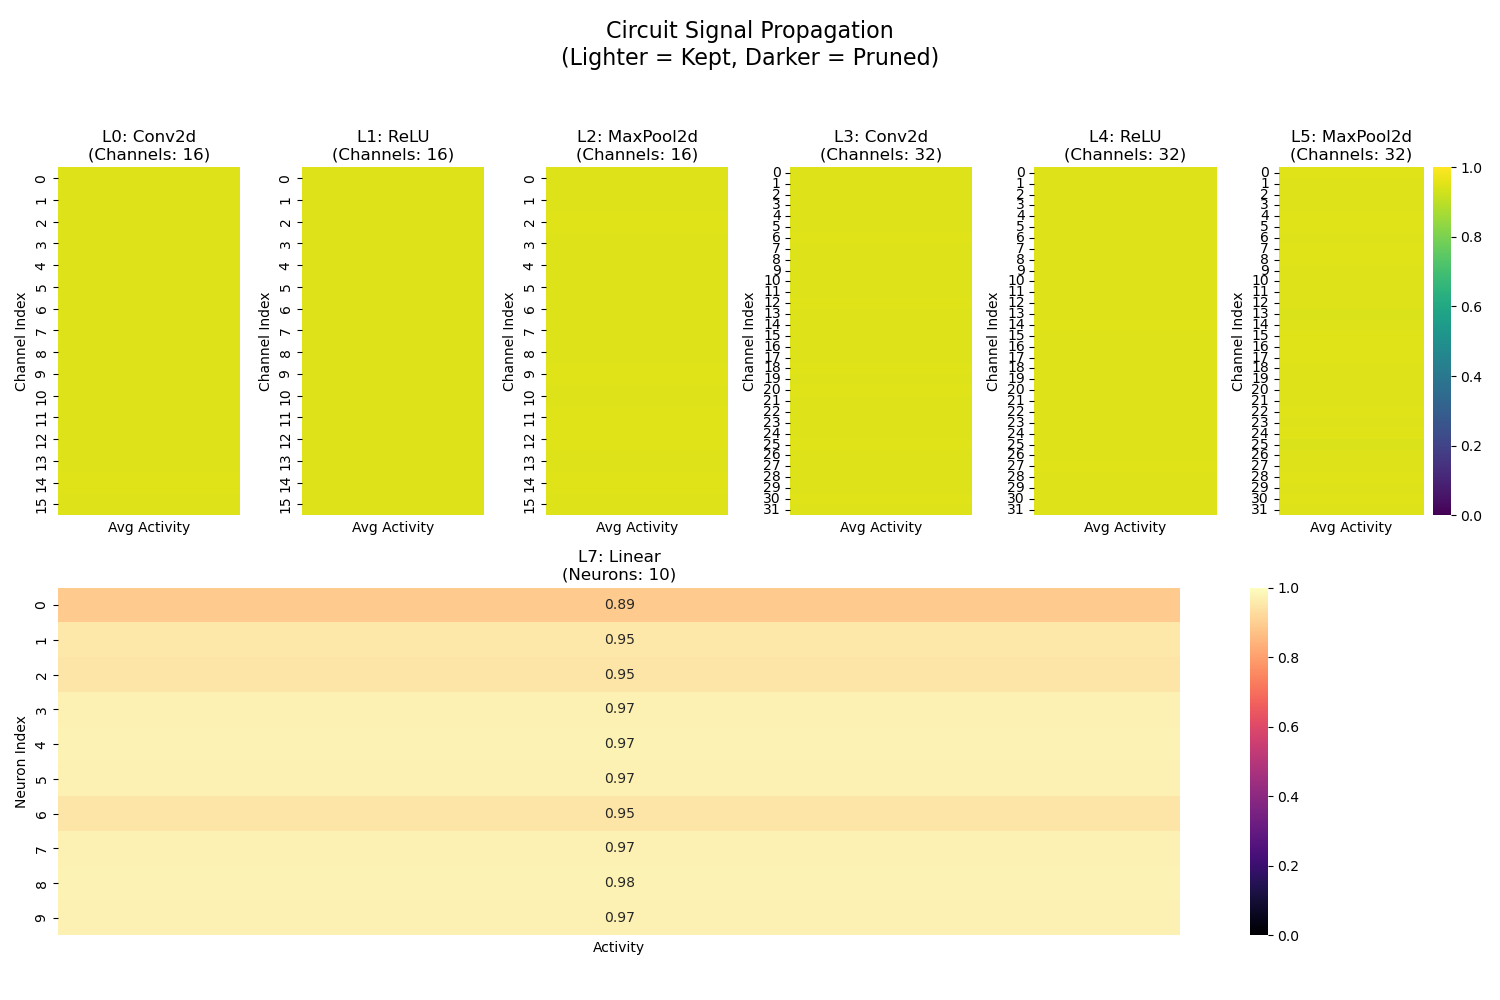
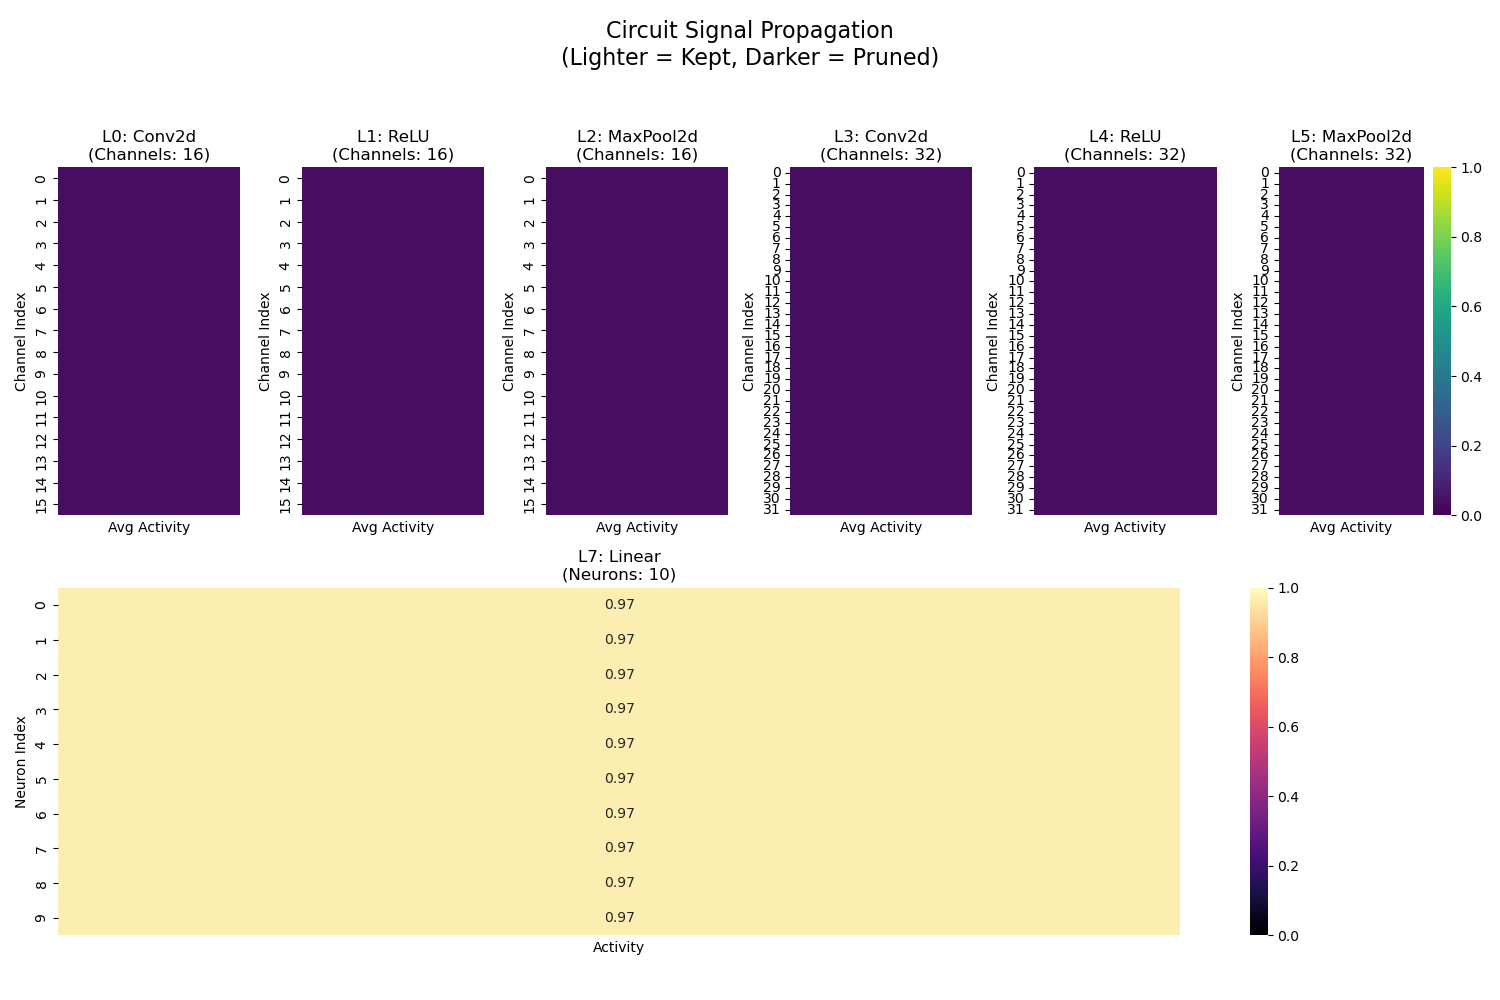
adjusted mask logic

Changed region(s): [[0.0307, 0.155, 0.4907, 0.527], [0.5213, 0.155, 0.9507, 0.527], [0.0307, 0.589, 0.7973, 0.62]]

diff --git a/inference.py b/inference.py
@@ -45,58 +45,57 @@ class Prune(torch.autograd.Function):
         return grad_output * grad_sigmoid, None
 
 class Mask(nn.Module):
-    def __init__(self, inp_shape: list[int], temperature: float, mean_act: torch.Tensor, activate: bool = True):
+    def __init__(self, inp_shape: list[int], temperature: float, mean_act: torch.Tensor, active: bool = True):
         super().__init__()
-        
-        if activate:
-            init_val = torch.normal(1, 0.1, size=inp_shape)
-        else:
-            init_val = torch.ones(size=inp_shape)
 
-        self.mask = nn.Parameter(init_val, requires_grad=activate)
+        self.active = active
+        init_val = torch.normal(1, 0.1, size=inp_shape) if active else torch.ones(size=inp_shape)
+        self.mask = nn.Parameter(init_val, requires_grad=active)
+
         self.temperature = temperature
         self.register_buffer('mean_act', mean_act.detach())
 
-    def forward(self, x):
+    def forward(self, x, mean_ablation=False):
         mask = Prune.apply(self.mask, self.temperature)
-        return x * mask + (1 - mask) * self.mean_act
+        return x * mask + (1 - mask) * self.mean_act * (mean_ablation)
     
     def clamp(self):
         with torch.no_grad():
-            #the paper clamps between [-1,1]
             self.mask.clamp_(min=-1, max=1)
+        #the paper clamps between [-1,1]
     
     def l0_loss(self):
-        return torch.sum(Prune.apply(self.mask, self.temperature))
+        return torch.sum(Prune.apply(self.mask, self.temperature)) if self.active else 0
+
+
 
 class Circuit(nn.Module):
-    def __init__(self, model: nn.Module, inp_shape: list[int], mean_activations: list[torch.Tensor], temperature:float=0.3):
+    def __init__(self, model: nn.Module, inp_shape: list[int], mean_activations: list[torch.Tensor], temperature:float=0.3, mean_ablation=True):
         super().__init__()
         self.model = model
         for p in self.model.parameters():
             p.requires_grad = False
         
         self.mean_activations = mean_activations
-       
         dummy_input = torch.randn(1, *inp_shape).to(next(model.parameters()).device)
-        
         self.masks = nn.ModuleList([])
-
         self.temperature = temperature
+        self.mean_ablation = mean_ablation
+        self.total_params = 0
         
         assert len(mean_activations) == len(model.chain)
 
         with torch.no_grad():
             for mean_act, module in zip(mean_activations, model.chain):
                 dummy_input = module(dummy_input)
-                self.total_params = dummy_input.numel()
-                activate = isinstance(module, nn.Conv2d)
-                self.masks.append(Mask(dummy_input.shape[1:], temperature=temperature, mean_act=mean_act, activate=activate))
+                self.total_params += dummy_input.numel()
+                active = not isinstance(module, nn.Linear)
+                self.masks.append(Mask(dummy_input.shape[1:], temperature=temperature, mean_act=mean_act, active=active))
                 
  
     def forward(self, x):
         for mask, module in zip(self.masks, self.model.chain):
-            x = mask(module(x))
+            x = mask(module(x), self.mean_ablation)
         return x
     
     def clamp_masks(self):
@@ -104,10 +103,10 @@ class Circuit(nn.Module):
             mask.clamp()
     
     def total_l0_loss(self):
-        return sum(m.l0_loss() for m in self.masks)
+        return sum(m.l0_loss() for m in self.masks if m.active)
     
     def debug_stats(self):
         with torch.no_grad():
-            avg_mask = torch.mean(torch.stack([m.mask.mean() for m in self.masks]))
+            avg_mask = torch.mean(torch.stack([m.mask.mean() for m in self.masks if m.active]))
             return avg_mask.item()
 

diff --git a/train.py b/train.py
@@ -316,6 +316,7 @@ def extract_circuit(
         device: torch.device = 'cpu', 
         l0_lambda: float = 0.0, 
         temperature:float =0.3,
+        mean_ablation: bool = True,
         seed=0
     ):
     
@@ -333,7 +334,7 @@ def extract_circuit(
     mean_activations = calculate_mean_activations(model, trainloader, device)
     
     print("Initializing Circuit...")
-    circuit = inference.Circuit(model, inp_shape, mean_activations, temperature)
+    circuit = inference.Circuit(model, inp_shape, mean_activations, temperature, mean_ablation)
     circuit.to(device)
 
     optimizer = torch.optim.Adam(circuit.parameters(), lr=lr, eps=eps, betas=(b1, b2))
